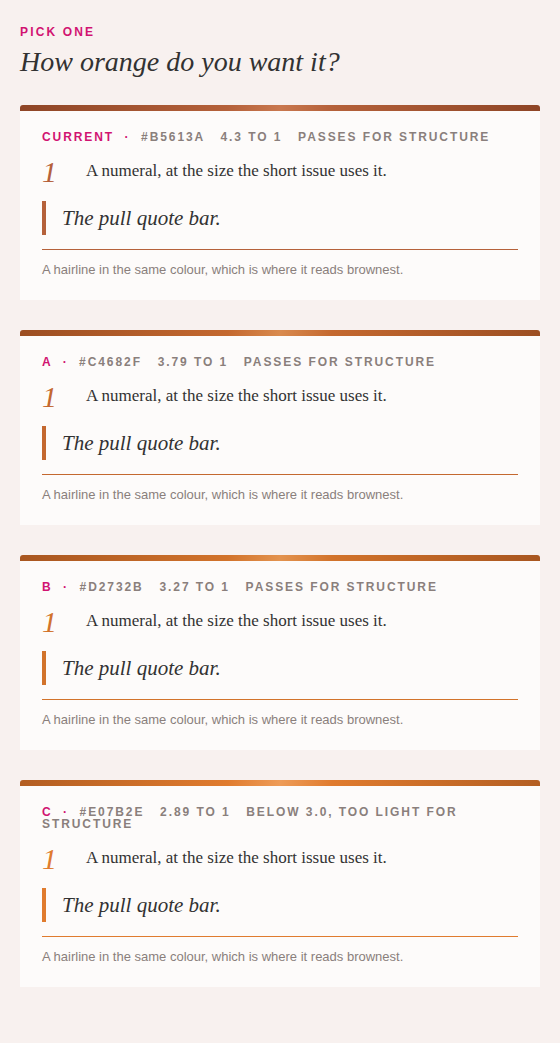
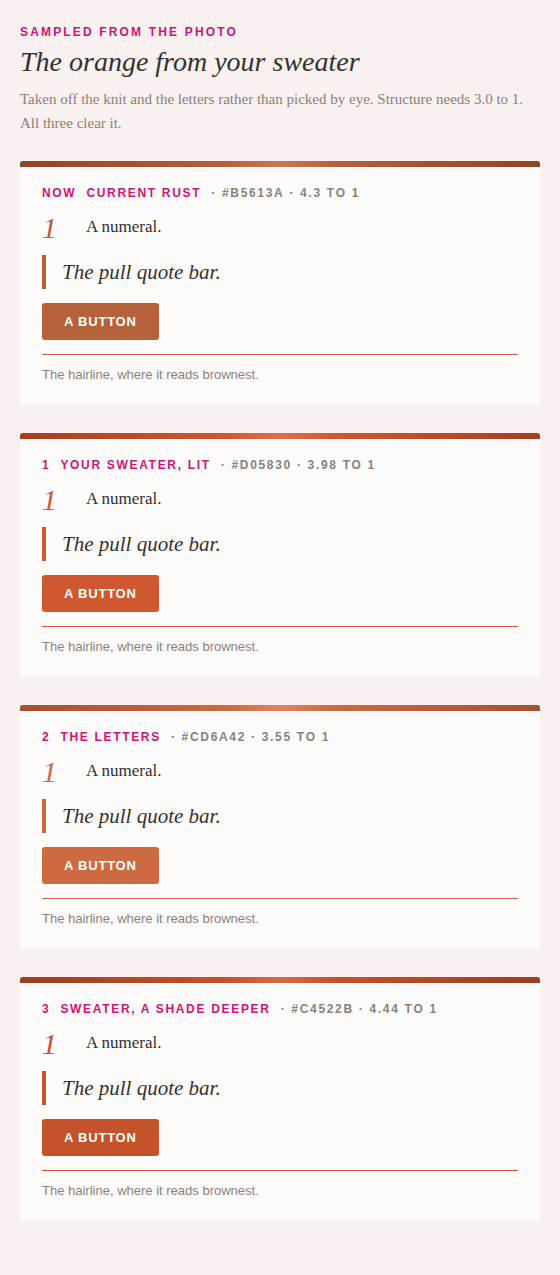
Sample the burnt orange from Jaimie's photo
The comparison sheet now shows colours taken off the sweater and the
letters rather than picked by eye. The lit knit reads #D05830, the letters
#CD6A42. Both clear 3.0 on the paper background, so either works for
structure, and white on #D05830 reaches 4.1 so it also works as a button.
Nothing applied yet, awaiting a pick.

Claude-Session: https://claude.ai/code/session_019H7cMcYYSgfvxCfrsxMTCp

Changed region(s): [[0.0304, 0.0, 0.9714, 0.6136], [0.0304, 0.6443, 0.9714, 0.9511]]

diff --git a/docs/newsletter-templates/orange-options.html b/docs/newsletter-templates/orange-options.html
@@ -1,109 +1,124 @@
-<!doctype html><html><head><meta charset="utf-8"><title>Orange options</title></head>
+<!doctype html><html><head><meta charset="utf-8"><title>Orange from the sweater</title></head>
    <body style="margin:0;padding:26px 16px;background:#F8F1EF">
    <div style="max-width:520px;margin:0 auto">
    <p style="margin:0 0 6px;font:600 12px/1 Helvetica,Arial,sans-serif;letter-spacing:.18em;
-      text-transform:uppercase;color:#D11371">Pick one</p>
-   <h1 style="margin:0 0 26px;font:italic 28px/1.25 Georgia,serif;color:#323232">
-     How orange do you want it?</h1>
+      text-transform:uppercase;color:#D11371">Sampled from the photo</p>
+   <h1 style="margin:0 0 8px;font:italic 28px/1.25 Georgia,serif;color:#323232">
+     The orange from your sweater</h1>
+   <p style="margin:0 0 26px;font:15px/1.6 Georgia,serif;color:#8a7f7c">
+     Taken off the knit and the letters rather than picked by eye. Structure needs
+     3.0 to 1. All three clear it.</p>
    
   <table role="presentation" cellpadding="0" cellspacing="0" border="0"
-         style="width:100%;max-width:520px;margin:0 0 30px">
+         style="width:100%;max-width:520px;margin:0 0 28px">
     <tr><td bgcolor="#B5613A" style="background:#B5613A;background-image:linear-gradient(100deg,#8E4526 0%,#B5613A 40%,#C9784F 50%,#B5613A 60%,#8E4526 100%);
         height:6px;line-height:6px;font-size:0;border-radius:3px 3px 0 0">&nbsp;</td></tr>
     <tr><td bgcolor="#FDFBFA" style="background:#FDFBFA;padding:20px 22px">
-      <p style="margin:0 0 14px;font:600 12px/1 Helvetica,Arial,sans-serif;letter-spacing:.16em;
-         text-transform:uppercase;color:#D11371">Current &nbsp;&middot;&nbsp;
-         <span style="color:#8a7f7c">#B5613A &nbsp; 4.3 to 1 &nbsp; passes for structure</span></p>
+      <p style="margin:0 0 14px;font:600 12px/1 Helvetica,Arial,sans-serif;letter-spacing:.14em;
+         text-transform:uppercase;color:#D11371">Now &nbsp;Current rust
+         <span style="color:#8a7f7c">&nbsp;&middot;&nbsp;#B5613A&nbsp;&middot;&nbsp;4.3 to 1</span></p>
       <table role="presentation" cellpadding="0" cellspacing="0" border="0" width="100%"
-             style="margin:0 0 14px"><tr>
+             style="margin:0 0 12px"><tr>
         <td width="44" valign="top" style="width:44px;font:italic 30px/1 Georgia,serif;color:#B5613A">1</td>
-        <td valign="top" style="font:17px/1.6 Georgia,serif;color:#323232">
-          A numeral, at the size the short issue uses it.</td></tr></table>
+        <td valign="top" style="font:17px/1.6 Georgia,serif;color:#323232">A numeral.</td></tr></table>
       <table role="presentation" cellpadding="0" cellspacing="0" border="0" width="100%"
              style="margin:0 0 14px"><tr>
         <td width="3" bgcolor="#B5613A" style="width:3px;background:#B5613A">&nbsp;</td>
         <td style="padding:2px 0 2px 16px;font:italic 21px/1.45 Georgia,serif;color:#323232">
           The pull quote bar.</td></tr></table>
+      <table role="presentation" cellpadding="0" cellspacing="0" border="0"
+             style="margin:0 0 14px"><tr><td bgcolor="#B5613A"
+        style="background:#B5613A;border-radius:3px"><a href="#"
+        style="display:inline-block;padding:12px 22px;font:600 13px/1 Helvetica,Arial,sans-serif;
+        letter-spacing:.06em;color:#FFFFFF;text-decoration:none">A BUTTON</a></td></tr></table>
       <table role="presentation" cellpadding="0" cellspacing="0" border="0" width="100%"><tr>
         <td height="1" bgcolor="#B5613A" style="height:1px;line-height:1px;font-size:0">&nbsp;</td>
       </tr></table>
       <p style="margin:10px 0 0;font:13px/1.5 Helvetica,Arial,sans-serif;color:#8a7f7c">
-        A hairline in the same colour, which is where it reads brownest.</p>
-    </td></tr>
-  </table>
+        The hairline, where it reads brownest.</p>
+    </td></tr></table>
   <table role="presentation" cellpadding="0" cellspacing="0" border="0"
-         style="width:100%;max-width:520px;margin:0 0 30px">
-    <tr><td bgcolor="#C4682F" style="background:#C4682F;background-image:linear-gradient(100deg,#9C4E22 0%,#C4682F 40%,#D98A4E 50%,#C4682F 60%,#9C4E22 100%);
+         style="width:100%;max-width:520px;margin:0 0 28px">
+    <tr><td bgcolor="#D05830" style="background:#D05830;background-image:linear-gradient(100deg,#A63F1E 0%,#D05830 40%,#E0714A 50%,#D05830 60%,#A63F1E 100%);
         height:6px;line-height:6px;font-size:0;border-radius:3px 3px 0 0">&nbsp;</td></tr>
     <tr><td bgcolor="#FDFBFA" style="background:#FDFBFA;padding:20px 22px">
-      <p style="margin:0 0 14px;font:600 12px/1 Helvetica,Arial,sans-serif;letter-spacing:.16em;
-         text-transform:uppercase;color:#D11371">A &nbsp;&middot;&nbsp;
-         <span style="color:#8a7f7c">#C4682F &nbsp; 3.79 to 1 &nbsp; passes for structure</span></p>
+      <p style="margin:0 0 14px;font:600 12px/1 Helvetica,Arial,sans-serif;letter-spacing:.14em;
+         text-transform:uppercase;color:#D11371">1 &nbsp;Your sweater, lit
+         <span style="color:#8a7f7c">&nbsp;&middot;&nbsp;#D05830&nbsp;&middot;&nbsp;3.98 to 1</span></p>
+      <table role="presentation" cellpadding="0" cellspacing="0" border="0" width="100%"
+             style="margin:0 0 12px"><tr>
+        <td width="44" valign="top" style="width:44px;font:italic 30px/1 Georgia,serif;color:#D05830">1</td>
+        <td valign="top" style="font:17px/1.6 Georgia,serif;color:#323232">A numeral.</td></tr></table>
       <table role="presentation" cellpadding="0" cellspacing="0" border="0" width="100%"
              style="margin:0 0 14px"><tr>
-        <td width="44" valign="top" style="width:44px;font:italic 30px/1 Georgia,serif;color:#C4682F">1</td>
-        <td valign="top" style="font:17px/1.6 Georgia,serif;color:#323232">
-          A numeral, at the size the short issue uses it.</td></tr></table>
-      <table role="presentation" cellpadding="0" cellspacing="0" border="0" width="100%"
-             style="margin:0 0 14px"><tr>
-        <td width="3" bgcolor="#C4682F" style="width:3px;background:#C4682F">&nbsp;</td>
+        <td width="3" bgcolor="#D05830" style="width:3px;background:#D05830">&nbsp;</td>
         <td style="padding:2px 0 2px 16px;font:italic 21px/1.45 Georgia,serif;color:#323232">
           The pull quote bar.</td></tr></table>
+      <table role="presentation" cellpadding="0" cellspacing="0" border="0"
+             style="margin:0 0 14px"><tr><td bgcolor="#D05830"
+        style="background:#D05830;border-radius:3px"><a href="#"
+        style="display:inline-block;padding:12px 22px;font:600 13px/1 Helvetica,Arial,sans-serif;
+        letter-spacing:.06em;color:#FFFFFF;text-decoration:none">A BUTTON</a></td></tr></table>
       <table role="presentation" cellpadding="0" cellspacing="0" border="0" width="100%"><tr>
-        <td height="1" bgcolor="#C4682F" style="height:1px;line-height:1px;font-size:0">&nbsp;</td>
+        <td height="1" bgcolor="#D05830" style="height:1px;line-height:1px;font-size:0">&nbsp;</td>
       </tr></table>
       <p style="margin:10px 0 0;font:13px/1.5 Helvetica,Arial,sans-serif;color:#8a7f7c">
-        A hairline in the same colour, which is where it reads brownest.</p>
-    </td></tr>
-  </table>
+        The hairline, where it reads brownest.</p>
+    </td></tr></table>
   <table role="presentation" cellpadding="0" cellspacing="0" border="0"
-         style="width:100%;max-width:520px;margin:0 0 30px">
-    <tr><td bgcolor="#D2732B" style="background:#D2732B;background-image:linear-gradient(100deg,#A85620 0%,#D2732B 40%,#E3934F 50%,#D2732B 60%,#A85620 100%);
+         style="width:100%;max-width:520px;margin:0 0 28px">
+    <tr><td bgcolor="#CD6A42" style="background:#CD6A42;background-image:linear-gradient(100deg,#A4502F 0%,#CD6A42 40%,#DD855F 50%,#CD6A42 60%,#A4502F 100%);
         height:6px;line-height:6px;font-size:0;border-radius:3px 3px 0 0">&nbsp;</td></tr>
     <tr><td bgcolor="#FDFBFA" style="background:#FDFBFA;padding:20px 22px">
-      <p style="margin:0 0 14px;font:600 12px/1 Helvetica,Arial,sans-serif;letter-spacing:.16em;
-         text-transform:uppercase;color:#D11371">B &nbsp;&middot;&nbsp;
-         <span style="color:#8a7f7c">#D2732B &nbsp; 3.27 to 1 &nbsp; passes for structure</span></p>
+      <p style="margin:0 0 14px;font:600 12px/1 Helvetica,Arial,sans-serif;letter-spacing:.14em;
+         text-transform:uppercase;color:#D11371">2 &nbsp;The letters
+         <span style="color:#8a7f7c">&nbsp;&middot;&nbsp;#CD6A42&nbsp;&middot;&nbsp;3.55 to 1</span></p>
+      <table role="presentation" cellpadding="0" cellspacing="0" border="0" width="100%"
+             style="margin:0 0 12px"><tr>
+        <td width="44" valign="top" style="width:44px;font:italic 30px/1 Georgia,serif;color:#CD6A42">1</td>
+        <td valign="top" style="font:17px/1.6 Georgia,serif;color:#323232">A numeral.</td></tr></table>
       <table role="presentation" cellpadding="0" cellspacing="0" border="0" width="100%"
              style="margin:0 0 14px"><tr>
-        <td width="44" valign="top" style="width:44px;font:italic 30px/1 Georgia,serif;color:#D2732B">1</td>
-        <td valign="top" style="font:17px/1.6 Georgia,serif;color:#323232">
-          A numeral, at the size the short issue uses it.</td></tr></table>
-      <table role="presentation" cellpadding="0" cellspacing="0" border="0" width="100%"
-             style="margin:0 0 14px"><tr>
-        <td width="3" bgcolor="#D2732B" style="width:3px;background:#D2732B">&nbsp;</td>
+        <td width="3" bgcolor="#CD6A42" style="width:3px;background:#CD6A42">&nbsp;</td>
         <td style="padding:2px 0 2px 16px;font:italic 21px/1.45 Georgia,serif;color:#323232">
           The pull quote bar.</td></tr></table>
+      <table role="presentation" cellpadding="0" cellspacing="0" border="0"
+             style="margin:0 0 14px"><tr><td bgcolor="#CD6A42"
+        style="background:#CD6A42;border-radius:3px"><a href="#"
+        style="display:inline-block;padding:12px 22px;font:600 13px/1 Helvetica,Arial,sans-serif;
+        letter-spacing:.06em;color:#FFFFFF;text-decoration:none">A BUTTON</a></td></tr></table>
       <table role="presentation" cellpadding="0" cellspacing="0" border="0" width="100%"><tr>
-        <td height="1" bgcolor="#D2732B" style="height:1px;line-height:1px;font-size:0">&nbsp;</td>
+        <td height="1" bgcolor="#CD6A42" style="height:1px;line-height:1px;font-size:0">&nbsp;</td>
       </tr></table>
       <p style="margin:10px 0 0;font:13px/1.5 Helvetica,Arial,sans-serif;color:#8a7f7c">
-        A hairline in the same colour, which is where it reads brownest.</p>
-    </td></tr>
-  </table>
+        The hairline, where it reads brownest.</p>
+    </td></tr></table>
   <table role="presentation" cellpadding="0" cellspacing="0" border="0"
-         style="width:100%;max-width:520px;margin:0 0 30px">
-    <tr><td bgcolor="#E07B2E" style="background:#E07B2E;background-image:linear-gradient(100deg,#B35E22 0%,#E07B2E 40%,#EE9C58 50%,#E07B2E 60%,#B35E22 100%);
+         style="width:100%;max-width:520px;margin:0 0 28px">
+    <tr><td bgcolor="#C4522B" style="background:#C4522B;background-image:linear-gradient(100deg,#9C3E1E 0%,#C4522B 40%,#D66B45 50%,#C4522B 60%,#9C3E1E 100%);
         height:6px;line-height:6px;font-size:0;border-radius:3px 3px 0 0">&nbsp;</td></tr>
     <tr><td bgcolor="#FDFBFA" style="background:#FDFBFA;padding:20px 22px">
-      <p style="margin:0 0 14px;font:600 12px/1 Helvetica,Arial,sans-serif;letter-spacing:.16em;
-         text-transform:uppercase;color:#D11371">C &nbsp;&middot;&nbsp;
-         <span style="color:#8a7f7c">#E07B2E &nbsp; 2.89 to 1 &nbsp; below 3.0, too light for structure</span></p>
+      <p style="margin:0 0 14px;font:600 12px/1 Helvetica,Arial,sans-serif;letter-spacing:.14em;
+         text-transform:uppercase;color:#D11371">3 &nbsp;Sweater, a shade deeper
+         <span style="color:#8a7f7c">&nbsp;&middot;&nbsp;#C4522B&nbsp;&middot;&nbsp;4.44 to 1</span></p>
+      <table role="presentation" cellpadding="0" cellspacing="0" border="0" width="100%"
+             style="margin:0 0 12px"><tr>
+        <td width="44" valign="top" style="width:44px;font:italic 30px/1 Georgia,serif;color:#C4522B">1</td>
+        <td valign="top" style="font:17px/1.6 Georgia,serif;color:#323232">A numeral.</td></tr></table>
       <table role="presentation" cellpadding="0" cellspacing="0" border="0" width="100%"
              style="margin:0 0 14px"><tr>
-        <td width="44" valign="top" style="width:44px;font:italic 30px/1 Georgia,serif;color:#E07B2E">1</td>
-        <td valign="top" style="font:17px/1.6 Georgia,serif;color:#323232">
-          A numeral, at the size the short issue uses it.</td></tr></table>
-      <table role="presentation" cellpadding="0" cellspacing="0" border="0" width="100%"
-             style="margin:0 0 14px"><tr>
-        <td width="3" bgcolor="#E07B2E" style="width:3px;background:#E07B2E">&nbsp;</td>
+        <td width="3" bgcolor="#C4522B" style="width:3px;background:#C4522B">&nbsp;</td>
         <td style="padding:2px 0 2px 16px;font:italic 21px/1.45 Georgia,serif;color:#323232">
           The pull quote bar.</td></tr></table>
+      <table role="presentation" cellpadding="0" cellspacing="0" border="0"
+             style="margin:0 0 14px"><tr><td bgcolor="#C4522B"
+        style="background:#C4522B;border-radius:3px"><a href="#"
+        style="display:inline-block;padding:12px 22px;font:600 13px/1 Helvetica,Arial,sans-serif;
+        letter-spacing:.06em;color:#FFFFFF;text-decoration:none">A BUTTON</a></td></tr></table>
       <table role="presentation" cellpadding="0" cellspacing="0" border="0" width="100%"><tr>
-        <td height="1" bgcolor="#E07B2E" style="height:1px;line-height:1px;font-size:0">&nbsp;</td>
+        <td height="1" bgcolor="#C4522B" style="height:1px;line-height:1px;font-size:0">&nbsp;</td>
       </tr></table>
       <p style="margin:10px 0 0;font:13px/1.5 Helvetica,Arial,sans-serif;color:#8a7f7c">
-        A hairline in the same colour, which is where it reads brownest.</p>
-    </td></tr>
-  </table>
+        The hairline, where it reads brownest.</p>
+    </td></tr></table>
    </div></body></html>
